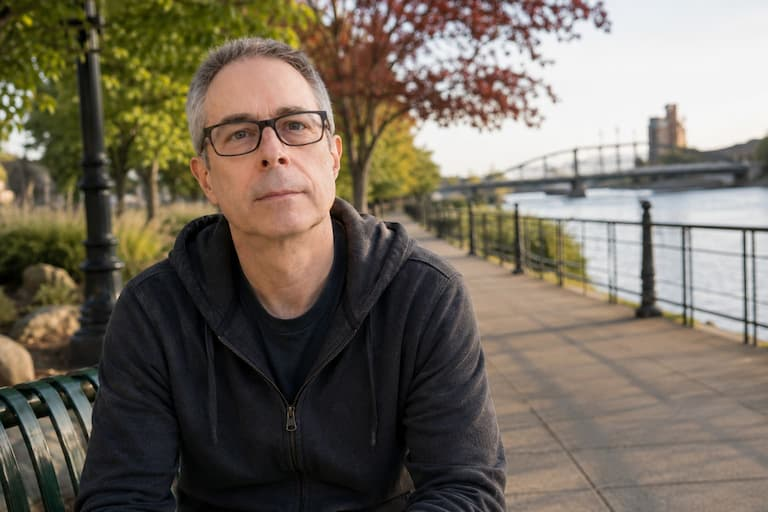
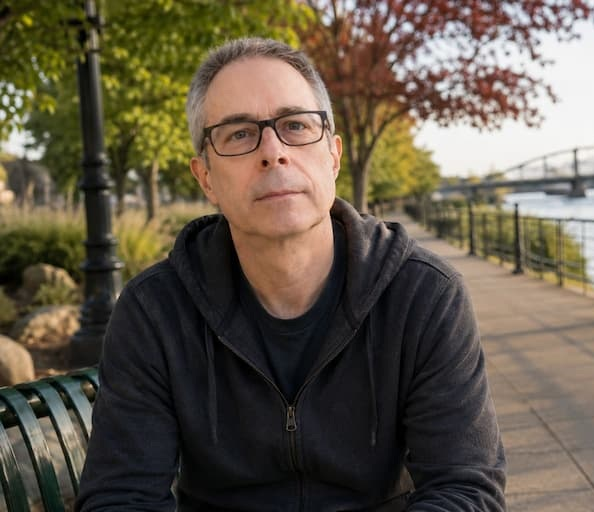
Adjust about page image alignment

diff --git a/src/components/AboutPage.tsx b/src/components/AboutPage.tsx
@@ -31,12 +31,12 @@ export function AboutPage({ onNavigate, onPrimaryAction }: AboutPageProps) {
         <p>Self-driving vehicles are operating today. AI can tackle increasingly complex problems. Robots are beginning to perform useful physical work.</p>
         <p>As these technologies advance, they could free people from more compulsory labor and create extraordinary new possibilities.</p>
         <p><strong>But what will we do with that freedom?</strong></p>
-        <img className="about-simple-wide-image" src="/images/about/about-crossover-hero.jpg" alt="Stockton waterfront promenade and skyline at sunset" width="1672" height="941" fetchPriority="high" decoding="async" />
+        <img className="about-simple-wide-image about-simple-hero-image" src="/images/about/about-crossover-hero.jpg" alt="Stockton waterfront promenade and skyline at sunset" width="1672" height="941" fetchPriority="high" decoding="async" />
       </section>
 
       <section className="about-simple-section" aria-labelledby="about-stockton-title">
         <h2 id="about-stockton-title">Starting in Stockton with the stray dogs epidemic</h2>
-        <p>As AI and automation take over administrative drudgery, animal welfare shifts from underpaid bureaucratic labor to <strong>human vocation</strong>—where people spend 100% of their time calming, training, fostering, and rehabilitating animals while tech handles the logistics.</p>
+        <p>As AI and automation take over administrative drudgery, animal welfare shifts from underpaid bureaucratic labor to <strong>human vocation</strong>—where people could spend 100% of their time calming, training, fostering, and rehabilitating animals while tech handles the logistics.</p>
         <p><a href="/work/dogs/">Open the dog investigation</a></p>
       </section>
 
@@ -53,14 +53,13 @@ export function AboutPage({ onNavigate, onPrimaryAction }: AboutPageProps) {
       <section className="about-simple-section about-simple-philosophy" aria-labelledby="about-reality-title">
         <h2 id="about-reality-title">We have to connect with reality.</h2>
         <div className="public-entry">
-          <img className="about-simple-wide-image" src="/images/about/growing.jpg" alt="Watercolor seedling with visible roots beside the Stockton waterfront" width="1774" height="887" loading="lazy" decoding="async" />
           <div><p>Not just read about problems. Not assume we know the solutions. Actually encounter the people, animals, and circumstances that need our attention.</p>
-            <p>That means showing up. Trying to help. Discovering the barriers. Sometimes finding that what seemed simple is surprisingly difficult. And sometimes being changed by the experience.</p>
-            <p><strong>That's what Crossover is exploring. We're starting in Stockton.</strong></p></div>
+            <p>That means showing up. Trying to help. Discovering the barriers. Sometimes finding that what seemed simple is surprisingly difficult. And sometimes being changed by the experience.</p></div>
+          <img className="about-simple-wide-image" src="/images/about/growing.jpg" alt="Watercolor seedling with visible roots beside the Stockton waterfront" width="1774" height="887" loading="lazy" decoding="async" />
         </div>
       </section>
 
-      <section className="about-simple-section" aria-labelledby="about-founder-title">
+      <section className="about-simple-section about-simple-founder" aria-labelledby="about-founder-title">
         <h2 id="about-founder-title">Jeff Kolyer</h2>
         <p className="about-simple-meta">Founder · Stockton, California</p>
         <div className="public-entry">

diff --git a/src/styles/public.css b/src/styles/public.css
@@ -182,7 +182,7 @@ html:has(.public-site) {
 .about-simple .about-simple-philosophy {
   border-bottom: 1px solid #dadce0;
   padding-bottom: 32px;
-  margin-bottom: 32px;
+  margin-bottom: 40px;
 }
 
 .about-simple .about-simple-actions {
@@ -199,7 +199,23 @@ html:has(.public-site) {
 
 .about-simple .about-simple-ideas {
   display: grid;
-  gap: 24px;
+  grid-template-columns: repeat(2, minmax(0, 1fr));
+  gap: 32px 24px;
+}
+
+.about-simple .about-simple-ideas .public-entry {
+  grid-template-columns: minmax(0, 36fr) minmax(0, 64fr);
+  gap: 16px;
+}
+
+.about-simple .about-simple-ideas .public-entry img {
+  height: calc(100% - 20px);
+  margin-top: 4px;
+  aspect-ratio: auto;
+}
+
+.about-simple .about-simple-philosophy .public-entry {
+  grid-template-columns: minmax(0, 58fr) minmax(0, 42fr);
 }
 
 .about-simple .about-simple-wide-image {
@@ -209,8 +225,21 @@ html:has(.public-site) {
   object-fit: cover;
 }
 
-.about-simple .about-simple-founder-image {
-  aspect-ratio: 4 / 3;
+.about-simple .about-simple-hero-image {
+  aspect-ratio: 2.5 / 1;
+  object-fit: cover;
+}
+
+.about-simple .about-simple-founder .public-entry {
+  display: flow-root;
+}
+
+.about-simple .about-simple-founder .about-simple-founder-image {
+  float: left;
+  width: min(31.5%, 127px);
+  height: 132px;
+  margin: 4px 16px 8px 0;
+  aspect-ratio: auto;
   object-position: center top;
 }
 
@@ -301,6 +330,22 @@ html:has(.public-site) {
 }
 
 @media (max-width: 720px) {
+  .about-simple .about-simple-ideas {
+    grid-template-columns: minmax(0, 1fr);
+  }
+
+  .about-simple .about-simple-ideas .public-entry {
+    grid-template-columns: minmax(0, 33fr) minmax(0, 67fr);
+  }
+
+  .about-simple .about-simple-philosophy .public-entry {
+    grid-template-columns: minmax(0, 1fr);
+  }
+
+  .about-simple .about-simple-philosophy .public-entry img {
+    order: -1;
+  }
+
   :is(.about-simple, .gap-reference-page) .public-entry,
   .is-reality-page .gap-card,
   .is-connection-page .story-card,
